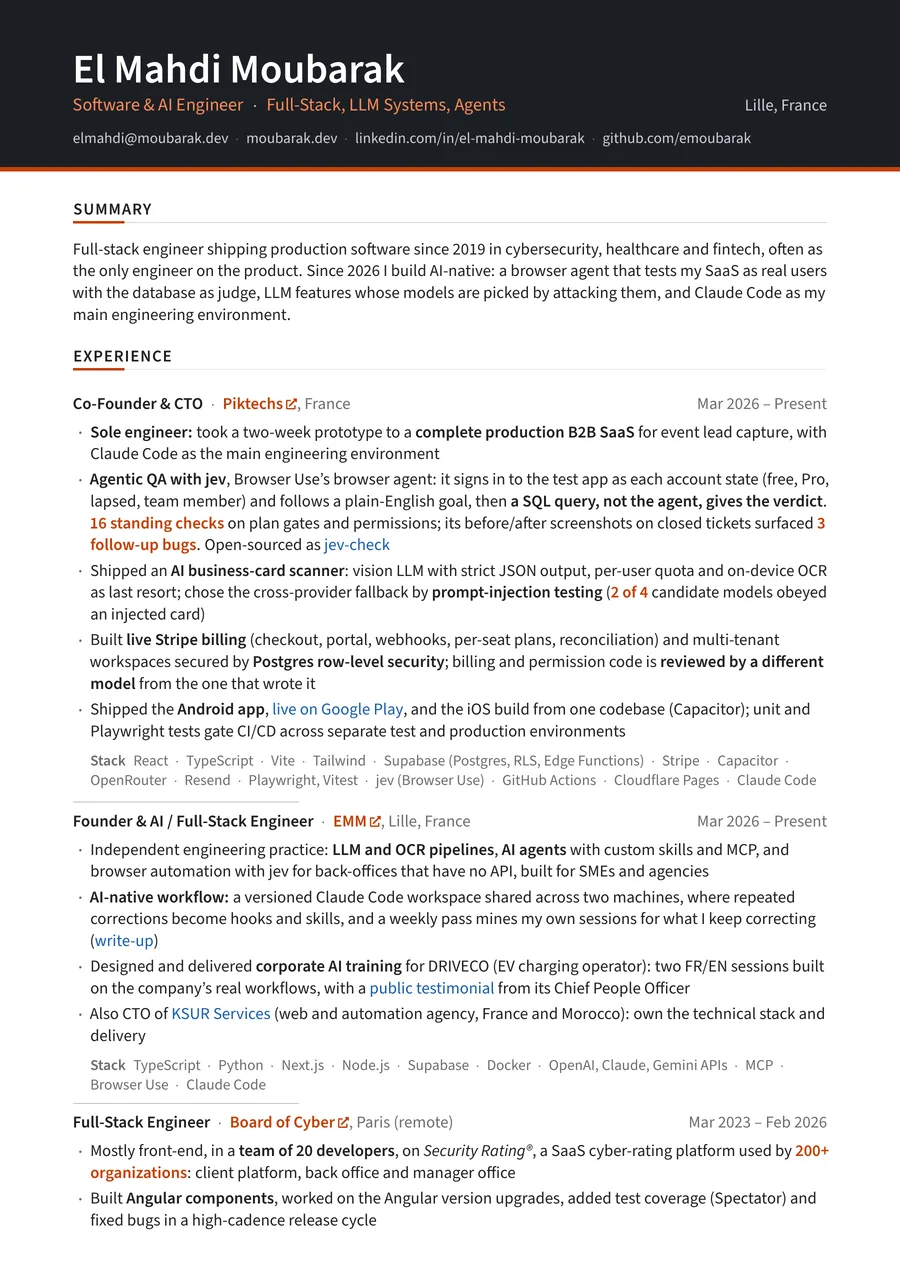
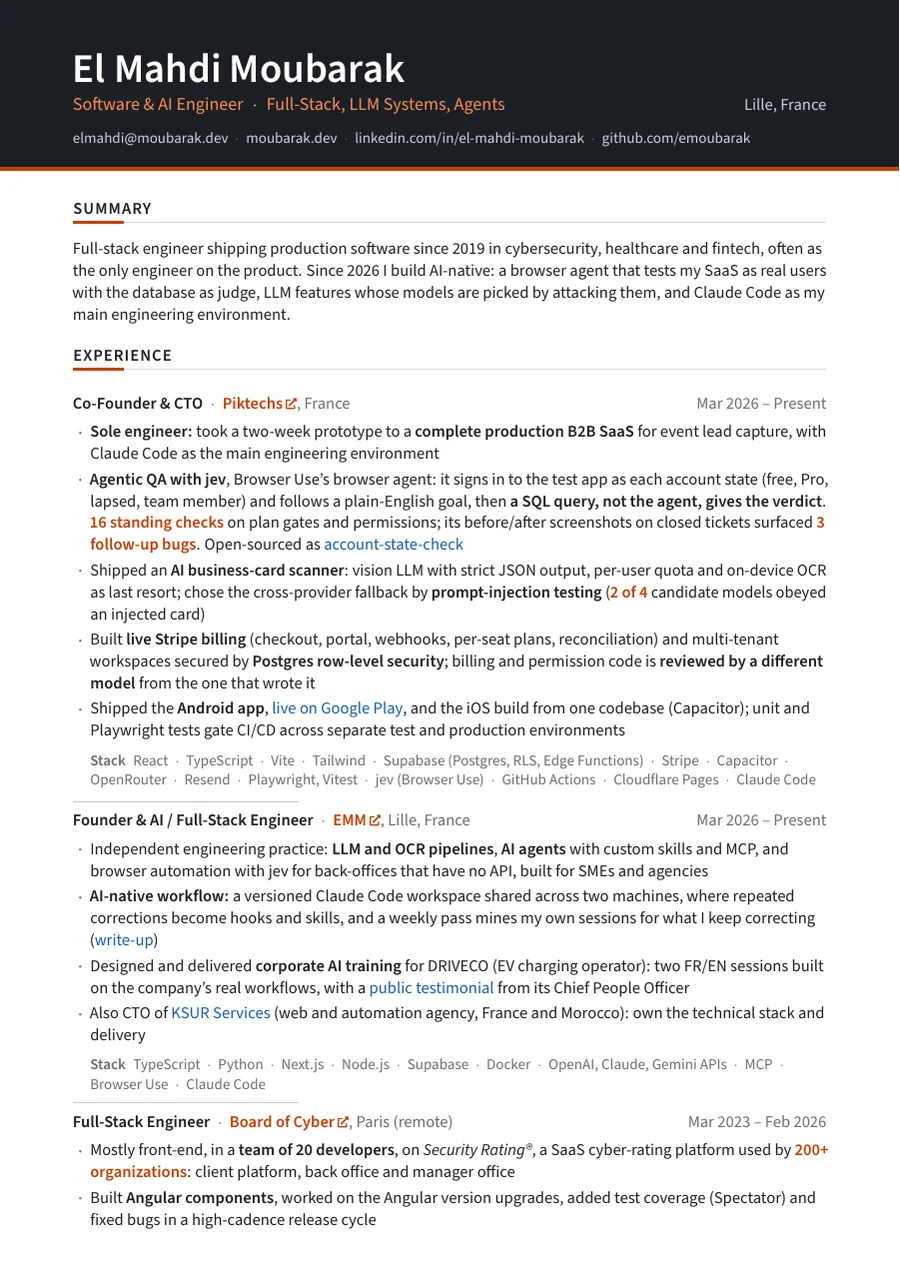
Public paths and stale names: browser-agents replaces jev-administrator, CV PDFs rebuilt
- polymarket_runs.py reads a polymarket-updown-lab checkout next to this repo instead of an absolute home path.
- The private task runner is shown as browser-agents (portfolio card, /kit, CV tex sources); image file names and
  blog slugs such as case-study-jev-check are unchanged.
- cv-en.pdf, cv-fr.pdf and the first-page previews were still built from the old text (jev-check, jev-administrator):
  rebuilt from the tex sources with pdfLaTeX (TeX Live 2024). French copy tightened by a few words so the CV stays at
  two pages with the longer project name.

diff --git a/src/data/profile.js b/src/data/profile.js
@@ -413,7 +413,7 @@ export const projects = [
     tags: ['Browser extension', 'Speech to text', 'Browser agents', 'Claude'],
   },
   {
-    title: 'jev-administrator',
+    title: 'browser-agents',
     thumb: `${base}/work/jev-administrator.webp`,
     subtitle: 'Private project',
     category: 'tool',

diff --git a/public/fr.tex b/public/fr.tex
@@ -102,7 +102,7 @@ Ingénieur full-stack, je livre du logiciel en production depuis 2019 (cyberséc
 \role{Co-fondateur \& CTO}{\org{https://piktechs.com}{Piktechs}}{France}{Mars 2026 -- Aujourd'hui}
 \begin{itemize}
     \item \textbf{Seul ingénieur :} prototype de deux semaines transformé en \textbf{SaaS B2B complet en production} pour la capture de leads événementiels, avec Claude Code comme environnement d'ingénierie principal
-    \item \textbf{QA agentique avec jev}, l'agent navigateur de Browser Use : il se connecte à l'app de test sous chaque état de compte (gratuit, Pro, expiré, membre d'équipe) et suit un objectif en langage naturel, puis \textbf{une requête SQL, pas l'agent, rend le verdict}. \m{16 vérifications permanentes} sur les accès par offre et les permissions ; ses captures avant/après sur des tickets clos ont révélé \m{3 bugs résiduels}. Publié en open source : \link{https://github.com/emoubarak/account-state-check}{account-state-check}
+    \item \textbf{QA agentique avec jev}, l'agent navigateur de Browser Use : il se connecte à l'app de test sous chaque état de compte (gratuit, Pro, expiré, membre d'équipe) et suit un objectif en langage naturel, puis \textbf{une requête SQL, pas l'agent, rend le verdict}. \m{16 vérifications permanentes} sur les accès par offre et les permissions ; ses captures avant/après sur des tickets clos ont révélé \m{3 bugs résiduels}. En open source : \link{https://github.com/emoubarak/account-state-check}{account-state-check}
     \item \textbf{Scanner de cartes de visite IA} : modèle de vision avec sortie JSON stricte, quota par utilisateur et OCR sur l'appareil en dernier recours ; modèle de repli choisi par des \textbf{tests d'injection de prompt} (\m{2 modèles candidats sur 4} ont obéi à une carte piégée)
     \item \textbf{Facturation Stripe en live} (checkout, portail, webhooks, offres par siège, réconciliation) et espaces multi-clients sécurisés par \textbf{row-level security Postgres} ; le code de facturation et de permissions est \textbf{relu par un autre modèle} que celui qui l'a écrit
     \item \textbf{Application Android} \link{https://play.google.com/store/apps/details?id=com.piktechs.app\&hl=fr}{publiée sur Google Play} et build iOS depuis le même code (Capacitor) ; tests unitaires et Playwright en garde-fou de la CI/CD, environnements de test et de production séparés
@@ -155,11 +155,11 @@ Ingénieur full-stack, je livre du logiciel en production depuis 2019 (cyberséc
 \section*{OPEN SOURCE \& PROJETS}
 \begin{itemize}
     \project{account-state-check}{https://github.com/emoubarak/account-state-check}{\textbf{skill d'agent open source (MIT)} pour Claude Code, Codex et OpenClaw : \textbf{QA par agent navigateur} sur une app de staging, où \textbf{une requête SQL, pas l'agent,} rend le verdict \stack{Python, CDP}}
-    \project{jev-administrator}{}{\textbf{orchestrateur auto-hébergé d'agents navigateur} (privé) : profils connectés persistants, un worker isolé par tâche, \textbf{main passée à un humain en direct} via WebRTC pour les connexions et la 2FA, back-office de suivi \stack{Python, Podman, CDP}}
+    \project{browser-agents}{}{\textbf{orchestrateur auto-hébergé d'agents navigateur} (privé) : profils connectés persistants, un worker isolé par tâche, \textbf{main passée à un humain en direct} via WebRTC pour les connexions et la 2FA, back-office de suivi \stack{Python, Podman, CDP}}
     \project{Polymarket Lab}{https://github.com/emoubarak/polymarket-updown-lab}{recherche d'un avantage de trading en six semaines : \textbf{backtests hors échantillon}, \m{\textasciitilde12~000 trades papier} sur 60 runners, moteur Python et \textbf{market maker} en Go. Verdict : \textbf{aucun avantage exploitable}}
     \project{PDFold}{https://pdfold.com}{PDF en Markdown structuré, \m{11 langues} : \textbf{pipeline OCR multi-passes + Gemini} avec repli, facturation Stripe \stack{Next.js, Supabase}}
     \project{AI Visibility Tracker}{https://apify.com/emoubarak/ai-search-visibility-tracker}{mesure comment ChatGPT, Perplexity, Gemini et Google AI Overviews \textbf{citent une marque}, \textbf{chaque prompt échantillonné plusieurs fois} ; appelable via \textbf{MCP} \stack{TypeScript}}
-    \project{Articles}{https://moubarak.dev/blog}{\link{https://moubarak.dev/cv\#ai}{ma façon de travailler avec l'IA} ; études de cas sur \link{https://moubarak.dev/blog/case-study-ai-card-scanner}{le scanner de cartes IA}, \link{https://moubarak.dev/blog/case-study-jev-check}{account-state-check} et \link{https://moubarak.dev/blog/case-study-piktechs}{Piktechs}}
+    \project{Articles}{https://moubarak.dev/blog}{\link{https://moubarak.dev/cv\#ai}{ma façon de travailler avec l'IA} ; cas d'étude : \link{https://moubarak.dev/blog/case-study-ai-card-scanner}{scanner de cartes IA}, \link{https://moubarak.dev/blog/case-study-jev-check}{account-state-check} et \link{https://moubarak.dev/blog/case-study-piktechs}{Piktechs}}
 \end{itemize}
 
 \section*{COMPÉTENCES}

diff --git a/public/en.tex b/public/en.tex
@@ -154,7 +154,7 @@ Full-stack engineer shipping production software since 2019 in cybersecurity, he
 \section*{OPEN SOURCE \& PROJECTS}
 \begin{itemize}
     \project{account-state-check}{https://github.com/emoubarak/account-state-check}{\textbf{open-source (MIT) agent skill} for Claude Code, Codex and OpenClaw: \textbf{browser-agent QA} on a staging app where \textbf{a SQL query, not the agent,} gives the verdict \stack{Python, CDP}}
-    \project{jev-administrator}{}{\textbf{self-hosted orchestrator for browser agents} (private): persistent logged-in browser profiles, one isolated worker per task, \textbf{live human hand-off} over WebRTC for logins and 2FA, back-office with a task timeline \stack{Python, Podman, CDP}}
+    \project{browser-agents}{}{\textbf{self-hosted orchestrator for browser agents} (private): persistent logged-in browser profiles, one isolated worker per task, \textbf{live human hand-off} over WebRTC for logins and 2FA, back-office with a task timeline \stack{Python, Podman, CDP}}
     \project{Polymarket Lab}{https://github.com/emoubarak/polymarket-updown-lab}{six weeks of trading-edge research: \textbf{out-of-sample backtests}, \m{\textasciitilde12,000 paper trades} across 60 concurrent runners, Python engine and Go \textbf{market maker}. Verdict: \textbf{no tradable edge}}
     \project{PDFold}{https://pdfold.com}{PDF to structured Markdown in \m{11 languages}: \textbf{multi-pass OCR + Gemini pipeline} with failover, Stripe billing \stack{Next.js, Supabase}}
     \project{AI Visibility Tracker}{https://apify.com/emoubarak/ai-search-visibility-tracker}{measures how ChatGPT, Perplexity, Gemini and Google AI Overviews \textbf{mention a brand}, \textbf{sampling each prompt several times} per engine; callable over \textbf{MCP} \stack{TypeScript}}

diff --git a/scripts/illustrations/polymarket_runs.py b/scripts/illustrations/polymarket_runs.py
@@ -3,13 +3,16 @@
 
     python3 scripts/illustrations/polymarket_runs.py [path/to/runs.json]
 
+Default input: docs/results/runs.json of a polymarket-updown-lab checkout next to this repository.
+
 Writes polymarket-runs.json next to this file: one curve per archived paper run that actually traded,
 equity as a fraction of its starting stake, time normalised to 0..1.
 """
-import json, os, sys
+import json, sys
 from pathlib import Path
 
-src = Path(sys.argv[1] if len(sys.argv) > 1 else os.path.expanduser("~/repos/polymarket-updown-lab/docs/results/runs.json"))
+REPO = Path(__file__).resolve().parents[2]
+src = Path(sys.argv[1] if len(sys.argv) > 1 else REPO.parent / "polymarket-updown-lab" / "docs" / "results" / "runs.json")
 runs = []
 for r in json.loads(src.read_text()):
     eq = r.get("equity") or []
